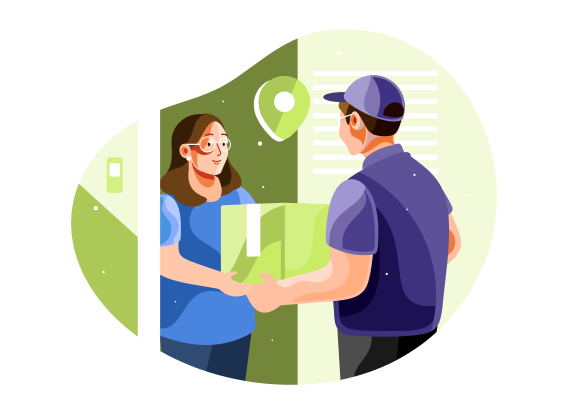
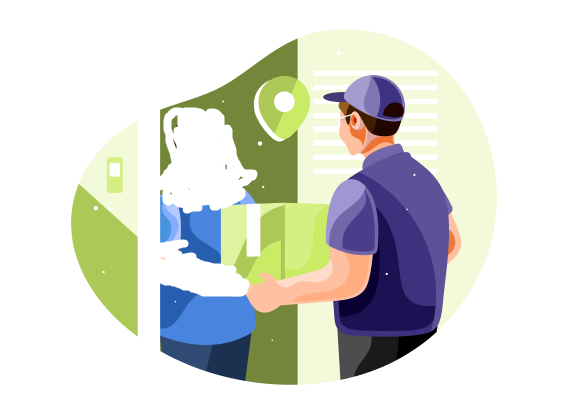
register page is added

Changed region(s): [[0.2694, 0.2609, 0.4789, 0.5217], [0.2694, 0.5797, 0.4489, 0.7246]]

diff --git a/src/pages/Auth/Register.jsx b/src/pages/Auth/Register.jsx
@@ -1,0 +1,36 @@
+// import React from 'react';
+import { useForm } from "react-hook-form"
+
+const Register = () => {
+    const {
+        register,
+        handleSubmit,
+        watch,
+        formState: { errors },
+    } = useForm()
+    const onSubmit = (data) => console.log(data)
+
+    return (
+        <div>
+            <form onSubmit={handleSubmit(onSubmit)}>
+                <fieldset className="fieldset">
+                    <label className="label">Email</label>
+                    <input type="email" className="input" placeholder="Email" {...register('email',{required:true})} />
+                    {errors.email && <span className="text-red-500">This field is required</span>}
+                    <label className="label">Password</label>
+                    <input type="password" className="input" placeholder="Password" {...register('password',{required:true,minLength:6, pattern:/^(?=.*[a-z])(?=.*[A-Z])(?=.*\d)(?=.*[^A-Za-z\d]).{8,}$/})}/>
+
+                    {errors.password?.type === 'required' && <span className="text-red-500">This field is required</span>}
+                    {errors.password?.type === 'minLength' && <p className="text-red-500">
+                        Password Must be 6 characters or longer</p>}
+                    {errors.password?.type === 'pattern'&& <span className="text-red-500">Password must have at least one capital letter, one small letter, one special character and one digit</span>}
+                    
+                    <div><a className="link link-hover">Forgot password?</a></div>
+                    <button className="btn btn-neutral mt-4">Login</button>
+                </fieldset>
+            </form>
+        </div>
+    );
+};
+
+export default Register;

diff --git a/src/Layouts/AuthLayout.jsx b/src/Layouts/AuthLayout.jsx
@@ -1,0 +1,26 @@
+// import React from 'react';
+
+import { Outlet } from "react-router";
+import Logo from "../Components/Logo/Logo";
+import authImag from "../assets/authImage.png";
+
+
+const AuthLayout = () => {
+    return (
+        <div className="max-w-6xl mx-auto">
+            <div className="pt-6">
+                <Logo></Logo>
+            </div>
+            <div className="flex">
+                <div className="flex-1">
+                    <Outlet></Outlet>
+                </div>
+                <div className="flex-1">
+                    <img src={authImag} alt="" srcset="" />
+                </div>
+            </div>
+        </div>
+    );
+};
+
+export default AuthLayout;

diff --git a/src/routers/router.jsx b/src/routers/router.jsx
@@ -4,10 +4,14 @@ import Home from "../pages/Home/Home";
 import Coverage from "../pages/Coverage/Coverage";
 import About from "../pages/About/About";
 import ErrorPage from "../pages/ErrorPage/ErrorPage";
+import AuthLayout from "../Layouts/AuthLayout";
+import Login from "../pages/Auth/Login";
+import Register from "../pages/Auth/Register";
+
+
 
 export const router = createBrowserRouter([
     {
-        path:'/',
         Component:RootLayout,
         errorElement:<ErrorPage></ErrorPage>,
         children:[
@@ -23,6 +27,20 @@ export const router = createBrowserRouter([
             {
                 path:'about',
                 Component:About,
+            }
+        ]
+    },
+    {
+        path:'auth',
+        Component:AuthLayout,
+        children:[
+            {
+                index:true,
+                Component:Login
+            },
+            {
+                path: 'register',
+                Component:Register
             }
         ]
     }

diff --git a/src/pages/Auth/Login.jsx b/src/pages/Auth/Login.jsx
@@ -1,0 +1,11 @@
+// import React from 'react';
+
+const Login = () => {
+    return (
+        <div>
+            
+        </div>
+    );
+};
+
+export default Login;

diff --git a/src/pages/Coverage/Coverage.jsx b/src/pages/Coverage/Coverage.jsx
@@ -8,7 +8,7 @@ import { useRef } from "react";
 const Coverage = () => {
     const position = [23.6850, 90.3563];
     const serviceCenters = useLoaderData();
-    const mapRef = useRef(null);
+    const mapRef = useRef();
     console.log(serviceCenters)
     const handleSearch=e=>{
         e.preventDefault();